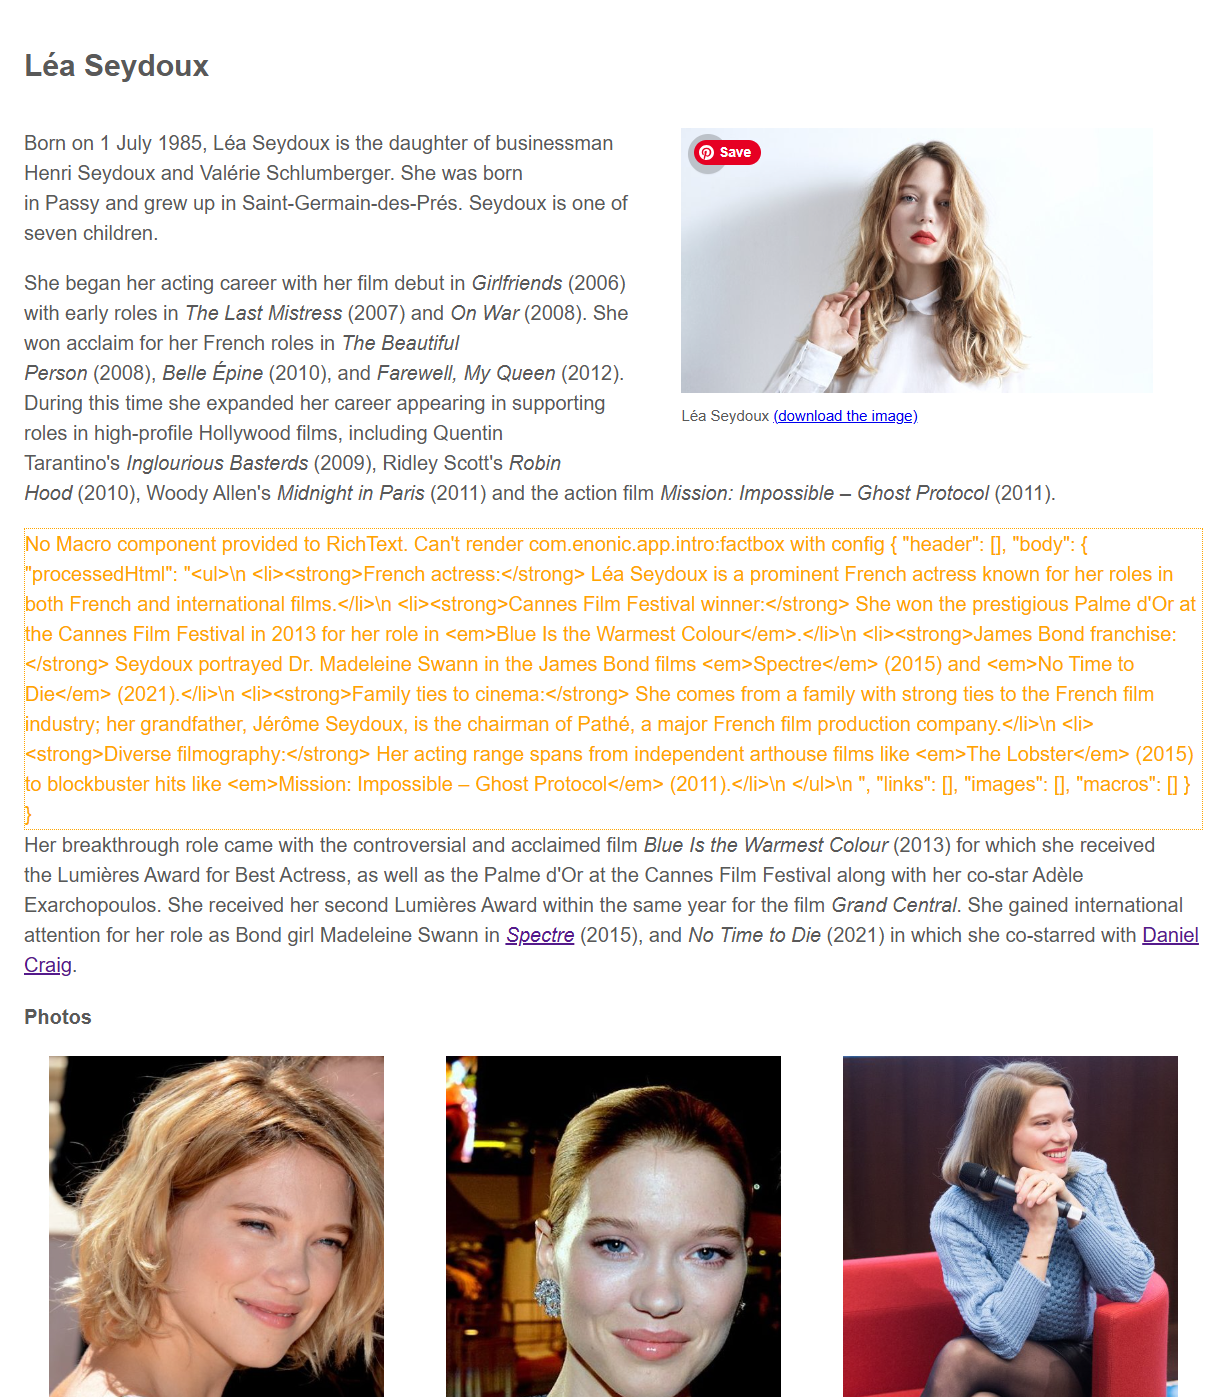
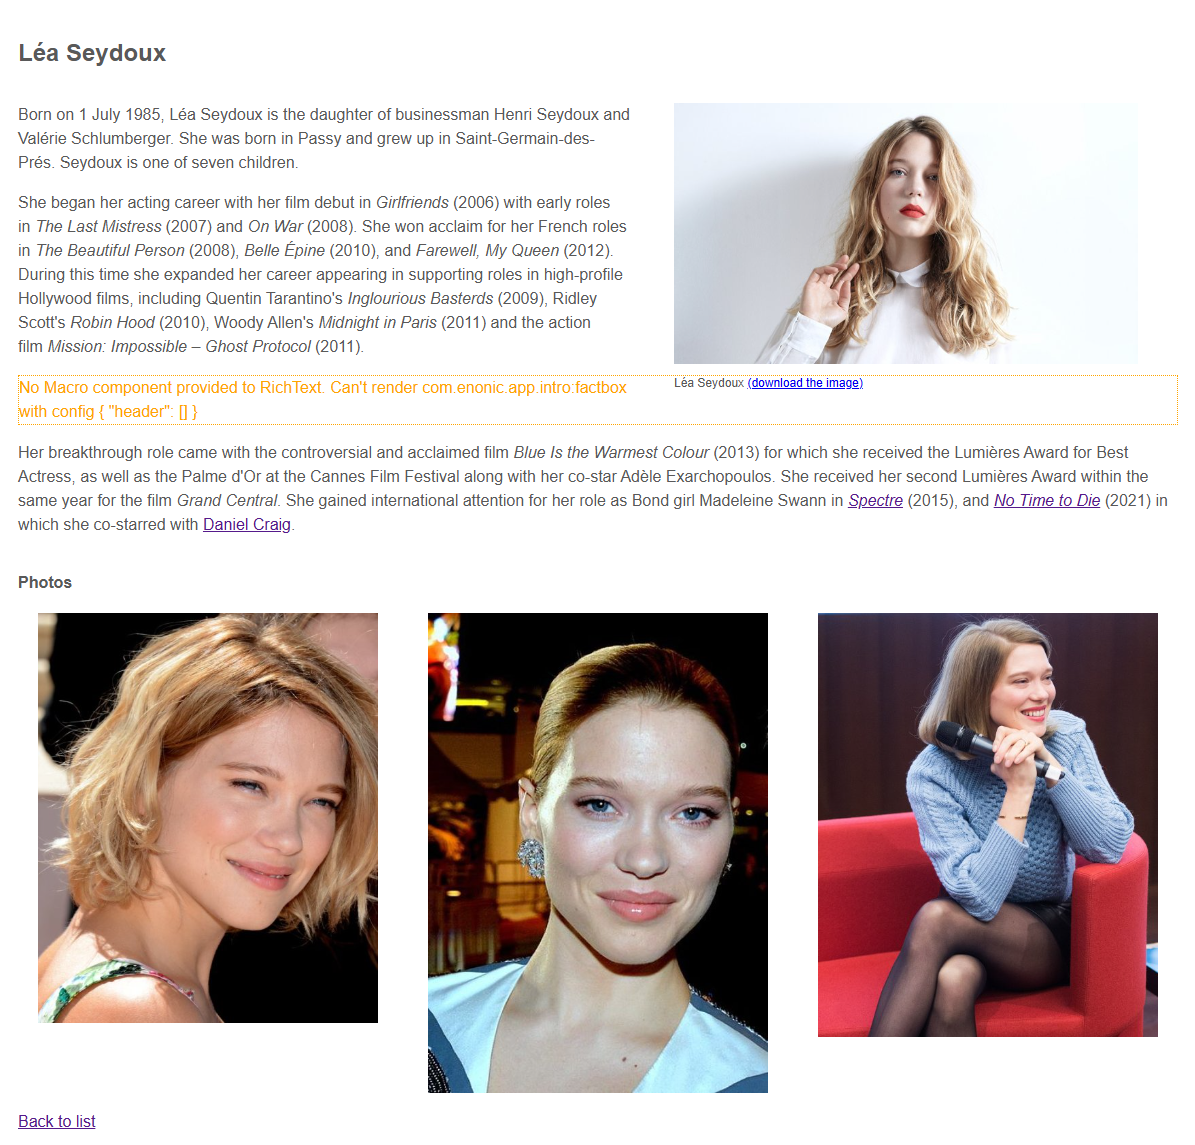
Update tutorial for new version of react-components #182

diff --git a/src/main/resources/static/queries/person.ts b/src/main/resources/static/queries/person.ts
@@ -42,33 +42,6 @@ const query = `query PersonQuery($personId: ID!) {
                             config {
                                 factbox {
                                     header
-                                    body(processHtml: { type: absolute }) {
-                                        processedHtml
-                                        links {
-                                            ref
-                                            media {
-                                                content {
-                                                    _id
-                                                }
-                                            }
-                                            content {
-                                                _id
-                                                _name
-                                                type
-                                            }
-                                        }
-                                        images {
-                                            ref
-                                            image {
-                                                _id
-                                            }
-                                        }
-                                        macros {
-                                            ref
-                                            name
-                                            descriptor
-                                        }
-                                    }
                                 }
                             }
                         }

diff --git a/src/main/resources/static/components/macros/FactBox.tsx b/src/main/resources/static/components/macros/FactBox.tsx
@@ -1,21 +1,18 @@
 import React from 'react'
 
 import styles from './FactBox.module.css';
-import {RichText} from '@enonic/react-components';
 import {RestProps} from '../index';
 
-interface FactBoxProps extends RestProps {
+declare type FactBoxProps = {
     config: Record<string, any>
-}
+    children: React.ReactNode
+} & RestProps;
 
-export const FactBox = ({config, guillotineUrl, personId}: FactBoxProps) => (<>
+export const FactBox = ({config, children, guillotineUrl, personId}: FactBoxProps) => (<>
     <ins className={styles.factbox}>
         <i className={styles.icon}/>
         <strong className={styles.header}>{config.header?.length ? config.header : 'Fact Box'}</strong>
-        <RichText<RestProps> className={styles.body}
-                             data={config.body}
-                             guillotineUrl={guillotineUrl}
-                             personId={personId}
-        />
+        <br/>
+        {children}
     </ins>
 </>)

diff --git a/src/main/resources/static/components/Person.tsx b/src/main/resources/static/components/Person.tsx
@@ -1,8 +1,8 @@
 import type {RichTextData} from '@enonic/react-components';
 import {RichText} from '@enonic/react-components';
 import type {RestProps} from '.';
-import React, {useEffect, useState,} from 'react';
-import {Link as RouterLink, useParams,} from 'react-router-dom';
+import React, {useEffect, useState} from 'react';
+import {Link as RouterLink, useParams} from 'react-router-dom';
 
 import {Image} from './Image';
 import {Link} from './Link';
@@ -93,8 +93,8 @@ export function Person() {
                         ))
                     }
                 </div>
+                <RouterLink to="/">Back to list</RouterLink>
             </div>
-            <RouterLink to='/'>Back to list</RouterLink>
         </>
     );
 }

diff --git a/src/main/resources/static/components/Macro.tsx b/src/main/resources/static/components/Macro.tsx
@@ -7,13 +7,14 @@ import {FactBox} from './macros/FactBox';
 
 
 export const Macro: MacroComponent<RestProps> = ({
-                                                     config,
-                                                     descriptor,
-                                                     ...rest
-                                                 }) => {
+    config,
+    descriptor,
+    children,
+    ...rest
+}) => {
     if (descriptor === 'com.enonic.app.intro:factbox') {
         const props = {...rest, config};
-        return <FactBox {...props} />;
+        return <FactBox {...props}>{children}</FactBox>;
     }
     throw new Error(`Macro not found: ${descriptor}`);
 }

diff --git a/src/main/resources/static/queries/personList.ts b/src/main/resources/static/queries/personList.ts
@@ -1,7 +1,7 @@
 const query = `query PersonListQuery {
     guillotine {
         queryDsl(
-            first: 9
+            first: 50
             query: {
                 term: {
                     field: "type",
@@ -23,7 +23,7 @@ const query = `query PersonListQuery {
                 data {
                     photos {
                         ... on media_Image {
-                            imageUrl(type: absolute, scale: "width(500)")
+                            imageUrl(type: absolute, scale: "square(500)")
                         }
                     }
                 }

diff --git a/src/main/resources/static/styles/personList.sass b/src/main/resources/static/styles/personList.sass
@@ -3,14 +3,16 @@ $color: rgba(0, 0, 0, .5)
 
 ul.person-list
   list-style-type: none
-  padding: 15px
+  padding: 30px 30px 0
+  margin: 0
+  background-color: #444
 
   li
     display: inline-block
     margin-bottom: $gutter
     padding-right: $gutter
     vertical-align: middle
-    width: calc((100% / 3) - $gutter)
+    width: calc((100% / 3) - 20px)
     &:nth-child(3n)
       padding-right: 0
 

diff --git a/src/main/resources/static/styles/body.sass b/src/main/resources/static/styles/body.sass
@@ -1,7 +1,7 @@
 body
   background-color: #fff
   color: #595959 // 7:1 AAA #595959 on #fff
-  padding: 20px
+  padding: 0
   margin: 0
   font-family: roboto, arial, serif
   width: 100%

diff --git a/src/main/resources/static/components/Person.module.css b/src/main/resources/static/components/Person.module.css
@@ -6,6 +6,7 @@
 .person {
     display: flex;
     flex-direction: column;
+    padding: 30px
 }
 
 .bio {
